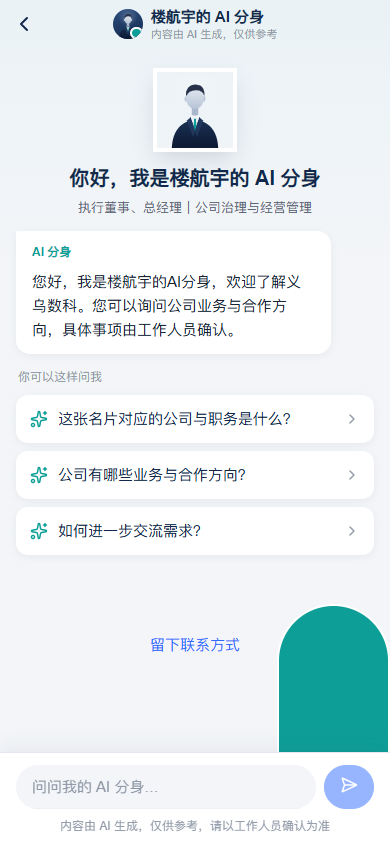
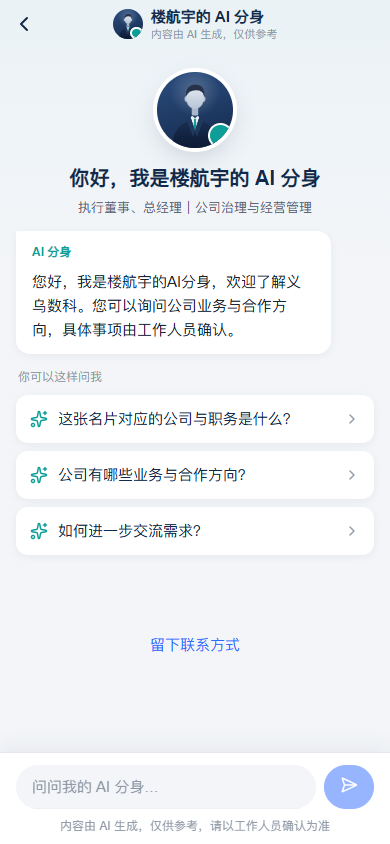
fix(h5): repair A2 portrait positioning and accessible fallback

Changed region(s): [[0.7077, 0.7085, 1.0, 0.8934], [0.4, 0.0616, 0.6154, 0.1848]]

diff --git a/apps/h5/src/pages/chat/[code].vue b/apps/h5/src/pages/chat/[code].vue
@@ -6,11 +6,11 @@ import { computed, shallowRef } from 'vue'
 import { useRoute, useRouter } from 'vue-router'
 import { ApiError, errorMessage } from '@/api/client'
 import { createSession, feedback, messages as getMessages, publicCard } from '@/api/generated'
+import AnonymousPortrait from '@/components/common/AnonymousPortrait.vue'
 import ChatComposer from '@/components/common/ChatComposer.vue'
 import ChatConversation from '@/components/common/ChatConversation.vue'
 import DemoBadge from '@/components/common/DemoBadge.vue'
 import ResourceState from '@/components/common/ResourceState.vue'
-import AnonymousPortrait from '@/components/common/AnonymousPortrait.vue'
 import DisabledCard from '@/components/visitor/DisabledCard.vue'
 import LeadSheet from '@/components/visitor/LeadSheet.vue'
 import LeadSuccess from '@/components/visitor/LeadSuccess.vue'
@@ -51,4 +51,4 @@ async function down(message: ChatMessage) {
 }
 </script>
 <template><ResourceState :loading="loading" :error="error" @retry="reload"><DisabledCard v-if="data?.card.status === 'disabled'" :company="data.card.company" /><LeadSuccess v-else-if="summary && data" :name="data.card.name || ''" :phone="data.card.mobile" :summary="summary" :code="code" :back-query="sceneQuery(source, campaignId)" @continue="summary = undefined" /><main v-else-if="data" class="page chat-page"><header class="chat-nav"><button class="nav-back" aria-label="返回名片" @click="router.push({ path: `/card/${code}`, query: sceneQuery(source, campaignId) })"><span class="icon i-lucide-chevron-left" /></button><div class="chat-head"><span class="avatar avatar-ai"><img v-if="data.card.photo_url" :src="data.card.photo_url" :alt="`${data.card.name}的职业照`"><AnonymousPortrait v-else /></span><div class="chat-head-text"><b>{{ data.card.name }}的 AI 分身</b><span>内容由 AI 生成，仅供参考</span></div></div><button v-if="data.card.mobile" class="nav-phone" aria-label="拨打电话" @click="callPhone(data.card.mobile)"><span class="icon i-lucide-phone" /></button><span v-else class="nav-phone-spacer" /></header><div class="content"><DemoBadge :model="model" /><section v-if="!messages.length" class="welcome-wrap"><div class="welcome"><span class="welcome-avatar avatar avatar-ai"><img v-if="data.card.photo_url" :src="data.card.photo_url" :alt="`${data.card.name}的职业照`"><AnonymousPortrait v-else /></span><h2>你好，我是{{ data.card.name }}的 AI 分身</h2><p v-if="role" class="welcome-role">{{ role }}</p></div><div v-if="data.opening" class="welcome-opening"><article class="message assistant"><div class="bubble"><span class="ai-label">AI 分身</span><p class="preline opening-text">{{ data.opening }}</p></div></article></div><div v-if="data.questions.length" class="guide-list"><p class="guide-lbl">你可以这样问我</p><button v-for="question in data.questions" :key="question" class="guide-q" :disabled="sending" @click="stream.send(question)"><span class="icon i-lucide-sparkles guide-spark" /><span class="guide-q-text">{{ question }}</span><span class="icon i-lucide-chevron-right guide-arrow" /></button></div></section><ChatConversation :messages="messages" :sending="sending" @feedback="down" @retry="stream.retry" /><p v-if="chatError" class="error" role="alert">{{ chatError }}</p><section v-for="(prompt, index) in leadPrompts" :key="index" class="lead-card"><b>{{ prompt.title }}</b><p>{{ prompt.reason }}</p><div class="lead-card-row"><van-button type="primary" size="small" @click="lead = true">留下联系方式</van-button><van-button v-if="data.card.mobile" plain size="small" @click="callPhone(data.card.mobile)"><span class="icon i-lucide-phone" />直接打电话</van-button></div></section><button class="text-button leave" @click="lead = true">留下联系方式</button></div><ChatComposer :disabled="!sessionId" :sending="sending" @send="stream.send" @stop="stream.stop" /><LeadSheet v-model="lead" :code="code" :session-id="sessionId" :campaign-id="campaignId" :visit-id="visitId" :source="source" @submitted="summary = $event" /></main></ResourceState></template>
-<style scoped>.chat-page{padding-bottom:140px;background:linear-gradient(180deg,var(--c-chat-bg-top) 0%,var(--c-bg) 260px)}.chat-nav{height:48px;display:grid;grid-template-columns:48px 1fr 48px;align-items:center;background:transparent;position:relative;z-index:3}.nav-back,.nav-phone{display:grid;place-items:center;border:0;padding:0;background:transparent;color:var(--c-ink);cursor:pointer}.nav-back .icon{width:24px;height:24px}.nav-phone .icon{width:22px;height:22px}.nav-phone-spacer{display:block}.chat-head{display:flex;align-items:center;gap:8px;justify-content:center;min-width:0}.chat-head .avatar{width:30px;height:30px;border-radius:var(--r-pill);overflow:hidden;flex:none;background:linear-gradient(165deg,var(--c-hero-top),var(--c-ink));position:relative}.chat-head .avatar img{width:100%;height:100%;object-fit:cover;object-position:center top}.avatar-ai::after{content:"";position:absolute;right:0;bottom:0;width:28%;height:28%;border-radius:var(--r-pill);background:var(--c-ai);border:2px solid var(--c-surface)}.chat-head-text{min-width:0}.chat-head-text b{display:block;font-size:var(--fs-base);color:var(--c-ink);line-height:1.3}.chat-head-text span{display:block;font-size:11px;color:var(--c-text-3);line-height:1.3}.content{padding:0}.welcome-wrap{display:grid;gap:4px}.welcome{display:flex;flex-direction:column;align-items:center;text-align:center;padding:24px 24px 8px}.welcome-avatar{width:76px;height:76px;box-shadow:var(--sh-welcome)}.welcome h2{margin:14px 0 4px;font-size:var(--fs-lg);color:var(--c-ink)}.welcome-role{margin:0;font-size:var(--fs-sm);color:var(--c-text-2)}.welcome-opening{padding:0 16px}.welcome-opening .message{max-width:88%}.welcome-opening .bubble{padding:var(--sp-3) var(--sp-4);background:var(--c-surface);border-radius:2px var(--r-lg) var(--r-lg);box-shadow:var(--sh-soft)}.welcome-opening .ai-label{display:block;color:var(--c-ai);font-size:var(--fs-xs);font-weight:600;margin-bottom:var(--sp-2)}.opening-text{margin:0}.guide-list{margin:4px 16px 0;display:flex;flex-direction:column;gap:8px}.guide-lbl{font-size:var(--fs-xs);color:var(--c-text-3);margin:6px 2px 0}.guide-q{display:flex;align-items:center;gap:10px;padding:12px 14px;border:0;border-radius:12px;background:var(--c-surface);font-size:var(--fs-base);color:var(--c-ink);box-shadow:var(--sh-soft);text-align:left;min-height:44px;cursor:pointer;width:100%}.guide-q:disabled{opacity:.5}.guide-spark{width:18px;height:18px;flex:none;color:var(--c-ai)}.guide-q-text{flex:1;min-width:0}.guide-arrow{width:16px;height:16px;flex:none;color:var(--c-text-3)}.lead-card{margin:0 16px 0 44px;padding:14px;border-radius:14px;background:var(--c-surface);border:1px solid var(--c-lead-card-line);box-shadow:var(--sh-soft)}.lead-card b{display:block;color:var(--c-ink);font-size:var(--fs-base)}.lead-card p{margin:4px 0 12px;font-size:var(--fs-sm);color:var(--c-text-2)}.lead-card-row{display:flex;gap:8px}.lead-card-row :deep(.van-button){flex:1}.lead-card-row .icon{width:16px;height:16px;margin-right:4px}.leave{display:block;margin:var(--sp-4,16px) auto 0}</style>
+<style scoped>.chat-page{padding-bottom:140px;background:linear-gradient(180deg,var(--c-chat-bg-top) 0%,var(--c-bg) 260px)}.chat-nav{height:48px;display:grid;grid-template-columns:48px 1fr 48px;align-items:center;background:transparent;position:relative;z-index:3}.nav-back,.nav-phone{display:grid;place-items:center;border:0;padding:0;background:transparent;color:var(--c-ink);cursor:pointer}.nav-back .icon{width:24px;height:24px}.nav-phone .icon{width:22px;height:22px}.nav-phone-spacer{display:block}.chat-head{display:flex;align-items:center;gap:8px;justify-content:center;min-width:0}.chat-head .avatar{width:30px;height:30px;border-radius:var(--r-pill);overflow:hidden;flex:none;background:linear-gradient(165deg,var(--c-hero-top),var(--c-ink));position:relative}.chat-head .avatar img{width:100%;height:100%;object-fit:cover;object-position:center top}.avatar-ai::after{content:"";position:absolute;right:0;bottom:0;width:28%;height:28%;border-radius:var(--r-pill);background:var(--c-ai);border:2px solid var(--c-surface)}.chat-head-text{min-width:0}.chat-head-text b{display:block;font-size:var(--fs-base);color:var(--c-ink);line-height:1.3}.chat-head-text span{display:block;font-size:11px;color:var(--c-text-3);line-height:1.3}.content{padding:0}.welcome-wrap{display:grid;gap:4px}.welcome{display:flex;flex-direction:column;align-items:center;text-align:center;padding:24px 24px 8px}.welcome-avatar{position:relative;display:block;width:76px;height:76px;border-radius:var(--r-pill);overflow:hidden;background:linear-gradient(165deg,var(--c-hero-top),var(--c-ink));box-shadow:var(--sh-welcome)}.welcome-avatar img{width:100%;height:100%;object-fit:cover;object-position:center top}.welcome h2{margin:14px 0 4px;font-size:var(--fs-lg);color:var(--c-ink)}.welcome-role{margin:0;font-size:var(--fs-sm);color:var(--c-text-2)}.welcome-opening{padding:0 16px}.welcome-opening .message{max-width:88%}.welcome-opening .bubble{padding:var(--sp-3) var(--sp-4);background:var(--c-surface);border-radius:2px var(--r-lg) var(--r-lg);box-shadow:var(--sh-soft)}.welcome-opening .ai-label{display:block;color:var(--c-ai);font-size:var(--fs-xs);font-weight:600;margin-bottom:var(--sp-2)}.opening-text{margin:0}.guide-list{margin:4px 16px 0;display:flex;flex-direction:column;gap:8px}.guide-lbl{font-size:var(--fs-xs);color:var(--c-text-3);margin:6px 2px 0}.guide-q{display:flex;align-items:center;gap:10px;padding:12px 14px;border:0;border-radius:12px;background:var(--c-surface);font-size:var(--fs-base);color:var(--c-ink);box-shadow:var(--sh-soft);text-align:left;min-height:44px;cursor:pointer;width:100%}.guide-q:disabled{opacity:.5}.guide-spark{width:18px;height:18px;flex:none;color:var(--c-ai)}.guide-q-text{flex:1;min-width:0}.guide-arrow{width:16px;height:16px;flex:none;color:var(--c-text-3)}.lead-card{margin:0 16px 0 44px;padding:14px;border-radius:14px;background:var(--c-surface);border:1px solid var(--c-lead-card-line);box-shadow:var(--sh-soft)}.lead-card b{display:block;color:var(--c-ink);font-size:var(--fs-base)}.lead-card p{margin:4px 0 12px;font-size:var(--fs-sm);color:var(--c-text-2)}.lead-card-row{display:flex;gap:8px}.lead-card-row :deep(.van-button){flex:1}.lead-card-row .icon{width:16px;height:16px;margin-right:4px}.leave{display:block;margin:var(--sp-4,16px) auto 0}</style>

diff --git a/apps/h5/src/components/visitor/CardAiEntry.vue b/apps/h5/src/components/visitor/CardAiEntry.vue
@@ -4,7 +4,7 @@ import { computed } from 'vue'
 import AnonymousPortrait from '@/components/common/AnonymousPortrait.vue'
 const props = defineProps<{ card: PublicCard }>()
 const emit = defineEmits<{ chat: [question?: string] }>()
-const opening = computed(() => props.card.assistant?.opening || '您好，我是我的 AI 分身，有什么可以帮您？')
+const opening = computed(() => props.card.assistant?.opening || (props.card.name ? `您好，我是${props.card.name}的 AI 分身，有什么可以帮您？` : '您好，有什么可以帮您？'))
 const questions = computed(() => props.card.assistant?.guide_questions ?? [])
 </script>
 

diff --git a/apps/h5/src/components/common/AnonymousPortrait.vue b/apps/h5/src/components/common/AnonymousPortrait.vue
@@ -10,7 +10,7 @@ const s = `ap-${uid}-s`
 </script>
 
 <template>
-  <svg class="portrait-illustration" viewBox="0 0 300 400" preserveAspectRatio="xMidYMax meet" role="img" aria-label="职业照占位图">
+  <svg class="portrait-illustration" viewBox="0 0 300 400" preserveAspectRatio="xMidYMax meet" role="img" aria-label="匿名人物插画占位，非真实照片">
     <defs>
       <radialGradient :id="l" cx="50%" cy="34%" r="45%">
         <stop offset="0" class="stop-highlight" stop-opacity=".22" />

diff --git a/tasks/reports/prototype-h5/LIANGWEI-A2-READY.md b/tasks/reports/prototype-h5/LIANGWEI-A2-READY.md
@@ -1,0 +1,20 @@
+# LIANGWEI A2 small repair — ready for parent validation
+
+Edits use native Edit only. No shell, check.sh or screenshots have been run (未执行).
+
+## Changes
+1. `apps/h5/src/pages/chat/[code].vue`
+   - Imports: moved `AnonymousPortrait` above `ChatComposer`, so the `@/components/common/*` group is alphabetical (perfectionist/import sort).
+   - `.welcome-avatar` now has `position:relative; display:block; width/height:76px; border-radius:var(--r-pill); overflow:hidden; background:linear-gradient(165deg,var(--c-hero-top),var(--c-ink)); box-shadow:var(--sh-welcome)`, plus `.welcome-avatar img{width:100%;height:100%;object-fit:cover;object-position:center top}`.
+   - Root cause: the old rule set only size and shadow. The `.avatar-ai::after` online dot (`position:absolute; width/height:28%`) had no positioned ancestor at the avatar level, so it resolved against an outer box and showed up as a large cyan pill. Now it is a 28% dot in the bottom-right of the 76px circle.
+2. `apps/h5/src/components/visitor/CardAiEntry.vue`: when there is no opening line, the fallback uses `card.name` (`您好，我是{name}的 AI 分身，有什么可以帮您？`). If the name is empty, it uses the neutral `您好，有什么可以帮您？`. The broken text `我是我的 AI 分身` is gone.
+3. `apps/h5/src/components/common/AnonymousPortrait.vue`: aria-label changed to `匿名人物插画占位，非真实照片`. The SVG shapes are unchanged.
+
+## Parent validation commands (未执行)
+```bash
+cd apps/h5 && pnpm lint && pnpm typecheck
+node tasks/reports/prototype-h5/capture-candidate.cjs   # compare A2 against reference/A2.png
+```
+
+## Risk
+- Not compared visually yet. The 76px size and `--sh-welcome` ring are kept, and the gradient matches the `.chat-head .avatar` / CardAiEntry `.avatar` gradient.
